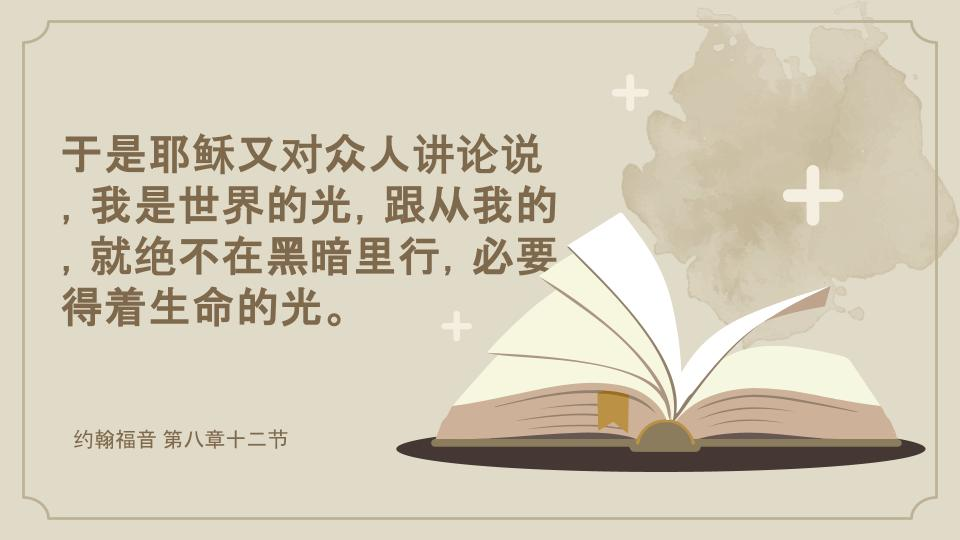
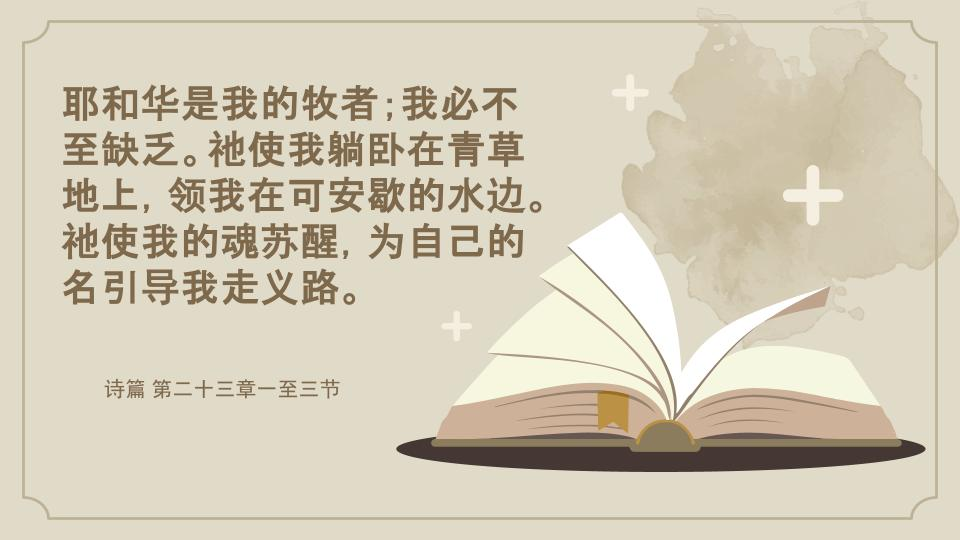
upddate

Changed region(s): [[0.0625, 0.1481, 0.5938, 0.6222], [0.0938, 0.6815, 0.3438, 0.7407], [0.0625, 0.8, 0.3125, 0.8296]]

diff --git a/index.js b/index.js
@@ -1,21 +1,21 @@
 function updatePointContent(element, title, content, link){
-    $(element).text(title)
+    $(element).html(title)
     $(element).append(content)// add content
     element = element + ' > a'
     $(element).attr('href', link)
 }
 
-const title = "本周(11.17.2024 - 11.23.2024)晨兴与读经进度"
+const title = "本周(11.24.2024 - 11.30.2024)晨兴与读经进度"
 const morning_revival_book_title = "2024年夏季训练 经历、享受并彰显基督（一）"
-const morning_revival_this_week = `<a>第一周 基督作为大光、有权柄者、医生、新郎、未漂过的布以及新酒</a>`
-const morning_revival_link = "https://stemofjesse.org/doku/doku.php/%E6%99%A8%E5%85%B4%E5%9C%A3%E8%A8%80:2024:2024.04.%E5%A4%8F%E5%AD%A3%E8%AE%AD%E7%BB%83:%E7%AC%AC%E4%B8%80%E5%91%A8"
-const youtubeSrc = "https://www.youtube.com/embed/AX_0Tby6MT0?si=YcumuVqrGgSPCzBH"
+const morning_revival_this_week = `<a>第二周 基督作为那行为受属天管治者、我们的牧人、我们的安息以及那撒种者</a>`
+const morning_revival_link = "https://stemofjesse.org/doku/doku.php/%E6%99%A8%E5%85%B4%E5%9C%A3%E8%A8%80:2024:2024.04.%E5%A4%8F%E5%AD%A3%E8%AE%AD%E7%BB%83:%E7%AC%AC%E4%BA%8C%E5%91%A8"
+const youtubeSrc = "https://www.youtube.com/embed/gZ_G2Y_idNk?si=o-XLmwaOCRz-pNfW"
 const youtube = `<br><iframe width="350" height="197" src=${youtubeSrc} title="YouTube video player" frameborder="0" allow="accelerometer; autoplay; clipboard-write; encrypted-media; gyroscope; picture-in-picture; web-share" referrerpolicy="strict-origin-when-cross-origin" allowfullscreen></iframe>`
  
-const old_test1 = "士师记" 
-const old_test2 = "路得记" 
-const new_test1 = "约翰一书"
-const new_test2 = "彼得后书"
+const old_test1 = "路得记"
+const old_test2 = "撒母耳记上" 
+const new_test1 = `约翰二书 约翰三书 犹大书 启示录`
+const new_test2 = "启示录"
 var ti = title
 $('title').text(ti)
 $('h1').text(ti)
@@ -36,20 +36,20 @@ $(elem).append(youtube)
 $('.div2 > .sub').text("圣经")
 
 ti = "旧约：" + old_test1
-content = " <a>第20~21章</a>" //<------ update here every week
-link = "https://www.recoveryversion.com.tw/Style0A/026/read_List.php?f_BookNo=7&f_ChapterNo=20"
+content = " <a>第4章</a>" //<------ update here every week
+link = "https://www.recoveryversion.com.tw/Style0A/026/read_List.php?f_BookNo=8&f_ChapterNo=4"
 elem = 'body > div.div2 > h3 > ul > li:nth-child(1) > .p1'
 updatePointContent(elem, ti, content, link)
 
 ti = "旧约：" + old_test2
-content = " <a>第1~3章</a>" //<------ update here every week
-link = "https://www.recoveryversion.com.tw/Style0A/026/read_List.php?f_BookNo=8&f_ChapterNo=1"
+content = " <a>第1~4章</a>" //<------ update here every week
+link = "https://www.recoveryversion.com.tw/Style0A/026/read_List.php?f_BookNo=9&f_ChapterNo=1"
 elem = 'body > div.div2 > h3 > ul > li:nth-child(1) > .p2'
 updatePointContent(elem, ti, content, link)
 
 ti = "新约：" + new_test1
-content = " <a>第1~5章</a>" //<------ update here every week
-link = "https://www.recoveryversion.com.tw/Style0A/026/read_List.php?f_BookNo=62&f_ChapterNo=1"
+content = " <a>第1~2章</a>" //<------ update here every week
+link = "https://www.recoveryversion.com.tw/Style0A/026/read_List.php?f_BookNo=66&f_ChapterNo=1"
 elem = 'body > div.div2 > h3 > ul > li:nth-child(2) > .p1'
 updatePointContent(elem, ti, content, link)
 
